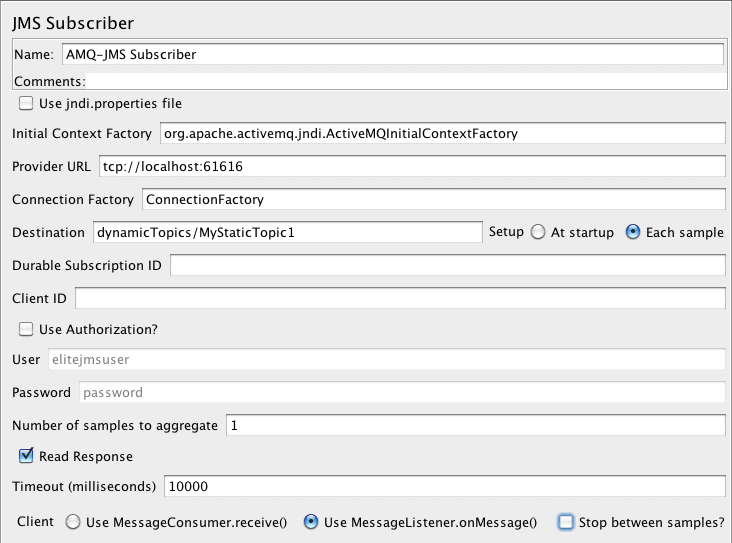
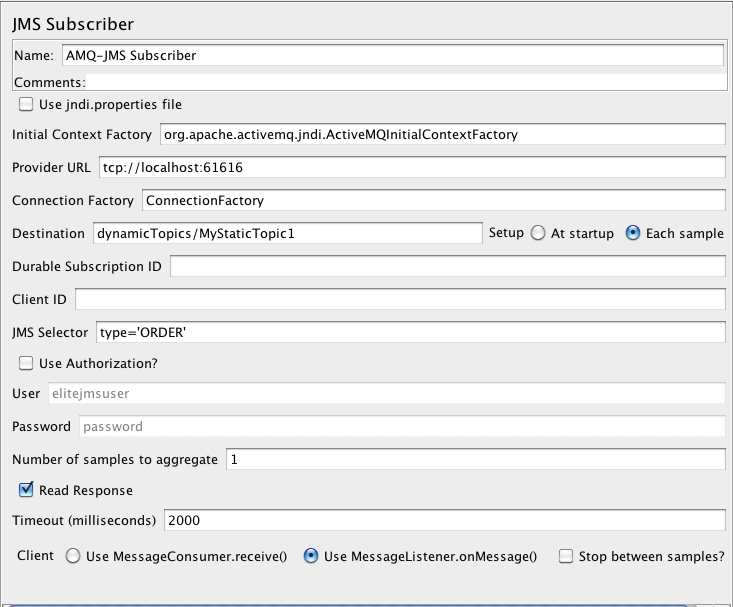
Bug 51419 - JMS Subscriber: ability to use Selectors
git-svn-id: https://svn.apache.org/repos/asf/jakarta/jmeter/trunk@1183653 13f79535-47bb-0310-9956-ffa450edef68

Changed region(s): [[0.0, 0.0, 1.0, 0.5009], [0.0, 0.5893, 0.9918, 1.0], [0.0, 0.5304, 0.2705, 0.5599]]

diff --git a/src/protocol/jms/org/apache/jmeter/protocol/jms/client/ReceiveSubscriber.java b/src/protocol/jms/org/apache/jmeter/protocol/jms/client/ReceiveSubscriber.java
@@ -74,6 +74,9 @@ public class ReceiveSubscriber implements Closeable, MessageListener {
      * @param providerUrl
      * @param connfactory
      * @param destinationName
+     * @param durableSubscriptionId
+     * @param clientId
+     * @param jmsSelector Message Selector
      * @param useAuth
      * @param securityPrincipal
      * @param securityCredentials
@@ -82,11 +85,11 @@ public class ReceiveSubscriber implements Closeable, MessageListener {
      */
     public ReceiveSubscriber(boolean useProps, 
             String initialContextFactory, String providerUrl, String connfactory, String destinationName,
-            String durableSubscriptionId, String clientId, boolean useAuth, 
+            String durableSubscriptionId, String clientId, String jmsSelector, boolean useAuth, 
             String securityPrincipal, String securityCredentials) throws NamingException, JMSException {
         this(0, useProps, 
                 initialContextFactory, providerUrl, connfactory, destinationName,
-                durableSubscriptionId, clientId, useAuth, 
+                durableSubscriptionId, clientId, jmsSelector, useAuth, 
                 securityPrincipal, securityCredentials, false);
     }
 
@@ -103,6 +106,9 @@ public class ReceiveSubscriber implements Closeable, MessageListener {
      * @param providerUrl
      * @param connfactory
      * @param destinationName
+     * @param durableSubscriptionId
+     * @param clientId
+     * @param jmsSelector Message Selector
      * @param useAuth
      * @param securityPrincipal
      * @param securityCredentials
@@ -111,11 +117,11 @@ public class ReceiveSubscriber implements Closeable, MessageListener {
      */
     public ReceiveSubscriber(int queueSize, boolean useProps, 
             String initialContextFactory, String providerUrl, String connfactory, String destinationName,
-            String durableSubscriptionId, String clientId, boolean useAuth, 
+            String durableSubscriptionId, String clientId, String jmsSelector, boolean useAuth, 
             String securityPrincipal, String securityCredentials) throws NamingException, JMSException {
         this(queueSize,  useProps, 
              initialContextFactory, providerUrl, connfactory, destinationName,
-             durableSubscriptionId, clientId, useAuth, 
+             durableSubscriptionId, clientId, jmsSelector, useAuth, 
              securityPrincipal,  securityCredentials, true);
     }
     
@@ -133,6 +139,9 @@ public class ReceiveSubscriber implements Closeable, MessageListener {
      * @param providerUrl
      * @param connfactory
      * @param destinationName
+     * @param durableSubscriptionId
+     * @param clientId
+     * @param jmsSelector Message Selector
      * @param useAuth
      * @param securityPrincipal
      * @param securityCredentials
@@ -142,7 +151,7 @@ public class ReceiveSubscriber implements Closeable, MessageListener {
      */
     private ReceiveSubscriber(int queueSize, boolean useProps, 
             String initialContextFactory, String providerUrl, String connfactory, String destinationName,
-            String durableSubscriptionId, String clientId, boolean useAuth, 
+            String durableSubscriptionId, String clientId, String jmsSelector, boolean useAuth, 
             String securityPrincipal, String securityCredentials, boolean useMessageListener) throws NamingException, JMSException {
         boolean initSuccess = false;
         try{
@@ -154,7 +163,7 @@ public class ReceiveSubscriber implements Closeable, MessageListener {
             }
             SESSION = CONN.createSession(false, Session.AUTO_ACKNOWLEDGE);
             Destination dest = Utils.lookupDestination(ctx, destinationName);
-            SUBSCRIBER = createSubscriber(SESSION, dest, durableSubscriptionId);
+            SUBSCRIBER = createSubscriber(SESSION, dest, durableSubscriptionId, jmsSelector);
             if(useMessageListener) {
                 if (queueSize <=0) {
                     queue = new LinkedBlockingQueue<Message>();
@@ -184,15 +193,25 @@ public class ReceiveSubscriber implements Closeable, MessageListener {
      * @param durableSubscriptionId 
      * 				If neither empty nor null, this means that a durable 
      * 				subscription will be used
+     * @param jmsSelector JMS Selector
      * @return
      * @throws JMSException
      */
     private MessageConsumer createSubscriber(Session session, 
-    		Destination destination, String durableSubscriptionId) throws JMSException {
+    		Destination destination, String durableSubscriptionId, 
+    		String jmsSelector) throws JMSException {
     	if (isEmpty(durableSubscriptionId)) {
-        	return  session.createConsumer(destination);
+    	    if(isEmpty(jmsSelector)) {
+    	        return session.createConsumer(destination);
+    	    } else {
+    	        return session.createConsumer(destination, jmsSelector);
+    	    }
         } else {
-        	return session.createDurableSubscriber((Topic) destination, durableSubscriptionId); 
+            if(isEmpty(jmsSelector)) {
+                return session.createDurableSubscriber((Topic) destination, durableSubscriptionId); 
+            } else {
+                return session.createDurableSubscriber((Topic) destination, durableSubscriptionId, jmsSelector, false);                 
+            }
         }	
     }
 

diff --git a/src/protocol/jms/org/apache/jmeter/protocol/jms/sampler/SubscriberSampler.java b/src/protocol/jms/org/apache/jmeter/protocol/jms/sampler/SubscriberSampler.java
@@ -79,16 +79,19 @@ public class SubscriberSampler extends BaseJMSSampler implements Interruptible, 
     // Don't change the string, as it is used in JMX files
     private static final String CLIENT_CHOICE = "jms.client_choice"; // $NON-NLS-1$
     private static final String TIMEOUT = "jms.timeout"; // $NON-NLS-1$
-    private static final String TIMEOUT_DEFAULT = "";
+    private static final String TIMEOUT_DEFAULT = ""; // $NON-NLS-1$
     private static final String DURABLE_SUBSCRIPTION_ID = "jms.durableSubscriptionId"; // $NON-NLS-1$
     private static final String CLIENT_ID = "jms.clientId"; // $NON-NLS-1$
+    private static final String JMS_SELECTOR = "jms.selector"; // $NON-NLS-1$
     private static final String DURABLE_SUBSCRIPTION_ID_DEFAULT = "";
     private static final String CLIENT_ID_DEFAULT = ""; // $NON-NLS-1$
+    private static final String JMS_SELECTOR_DEFAULT = ""; // $NON-NLS-1$
     private static final String STOP_BETWEEN = "jms.stop_between_samples"; // $NON-NLS-1$
     
     private transient boolean START_ON_SAMPLE = false;
 
     public SubscriberSampler() {
+        super();
     }
 
     /**
@@ -101,7 +104,7 @@ public class SubscriberSampler extends BaseJMSSampler implements Interruptible, 
     private void initListenerClient() throws JMSException, NamingException {
         SUBSCRIBER = new ReceiveSubscriber(0, getUseJNDIPropertiesAsBoolean(), getJNDIInitialContextFactory(),
                     getProviderUrl(), getConnectionFactory(), getDestination(), getDurableSubscriptionId(),
-                    getClientId(), isUseAuth(), getUsername(), getPassword());
+                    getClientId(), getJmsSelector(), isUseAuth(), getUsername(), getPassword());
         log.debug("SubscriberSampler.initListenerClient called");
     }
 
@@ -113,7 +116,7 @@ public class SubscriberSampler extends BaseJMSSampler implements Interruptible, 
     private void initReceiveClient() throws NamingException, JMSException {
         SUBSCRIBER = new ReceiveSubscriber(getUseJNDIPropertiesAsBoolean(),
                 getJNDIInitialContextFactory(), getProviderUrl(), getConnectionFactory(), getDestination(),
-                getDurableSubscriptionId(), getClientId(), isUseAuth(), getUsername(), getPassword());
+                getDurableSubscriptionId(), getClientId(), getJmsSelector(), isUseAuth(), getUsername(), getPassword());
         log.debug("SubscriberSampler.initReceiveClient called");
     }
 
@@ -371,6 +374,13 @@ public class SubscriberSampler extends BaseJMSSampler implements Interruptible, 
     public String getClientId() {
         return getPropertyAsString(CLIENT_ID, CLIENT_ID_DEFAULT);
     }
+    
+    /**
+     * @return JMS selector
+     */
+    public String getJmsSelector() {
+        return getPropertyAsString(JMS_SELECTOR, JMS_SELECTOR_DEFAULT);
+    }
 
     public void setDurableSubscriptionId(String durableSubscriptionId){
         setProperty(DURABLE_SUBSCRIPTION_ID, durableSubscriptionId, DURABLE_SUBSCRIPTION_ID_DEFAULT);        
@@ -381,6 +391,13 @@ public class SubscriberSampler extends BaseJMSSampler implements Interruptible, 
      */
     public void setClientID(String clientId) {
         setProperty(CLIENT_ID, clientId, CLIENT_ID_DEFAULT);
+    }
+   
+    /**
+     * @param jmsSelector JMS Selector
+     */
+    public void setJmsSelector(String jmsSelector) {
+        setProperty(JMS_SELECTOR, jmsSelector, JMS_SELECTOR_DEFAULT);
     }
     
     // This was the old value that was checked for

diff --git a/src/protocol/jms/org/apache/jmeter/protocol/jms/control/gui/JMSSubscriberGui.java b/src/protocol/jms/org/apache/jmeter/protocol/jms/control/gui/JMSSubscriberGui.java
@@ -65,6 +65,9 @@ public class JMSSubscriberGui extends AbstractSamplerGui implements ChangeListen
     private final JLabeledTextField jmsClientId =
         new JLabeledTextField(JMeterUtils.getResString("jms_client_id")); // $NON-NLS-1$
 
+    private final JLabeledTextField jmsSelector =
+        new JLabeledTextField(JMeterUtils.getResString("jms_selector")); // $NON-NLS-1$
+
     private final JLabeledTextField jmsUser =
         new JLabeledTextField(JMeterUtils.getResString("jms_user")); // $NON-NLS-1$
 
@@ -140,6 +143,7 @@ public class JMSSubscriberGui extends AbstractSamplerGui implements ChangeListen
         sampler.setDestination(jmsDestination.getText());
         sampler.setDurableSubscriptionId(jmsDurableSubscriptionId.getText());
         sampler.setClientID(jmsClientId.getText());
+        sampler.setJmsSelector(jmsSelector.getText());
         sampler.setUsername(jmsUser.getText());
         sampler.setPassword(jmsPwd.getText());
         sampler.setUseAuth(useAuth.isSelected());
@@ -174,6 +178,7 @@ public class JMSSubscriberGui extends AbstractSamplerGui implements ChangeListen
         mainPanel.add(createDestinationPane());
         mainPanel.add(jmsDurableSubscriptionId);
         mainPanel.add(jmsClientId);
+        mainPanel.add(jmsSelector);
         mainPanel.add(useAuth);
         mainPanel.add(jmsUser);
         mainPanel.add(jmsPwd);
@@ -205,6 +210,7 @@ public class JMSSubscriberGui extends AbstractSamplerGui implements ChangeListen
         jmsDestination.setText(sampler.getDestination());
         jmsDurableSubscriptionId.setText(sampler.getDurableSubscriptionId());
         jmsClientId.setText(sampler.getClientId());
+        jmsSelector.setText(sampler.getJmsSelector());
         jmsUser.setText(sampler.getUsername());
         jmsPwd.setText(sampler.getPassword());
         iterations.setText(sampler.getIterations());
@@ -228,6 +234,7 @@ public class JMSSubscriberGui extends AbstractSamplerGui implements ChangeListen
         jmsDestination.setText(""); // $NON-NLS-1$
         jmsDurableSubscriptionId.setText(""); // $NON-NLS-1$
         jmsClientId.setText(""); // $NON-NLS-1$
+        jmsSelector.setText(""); // $NON-NLS-1$
         jmsUser.setText(""); // $NON-NLS-1$
         jmsPwd.setText(""); // $NON-NLS-1$
         iterations.setText("1"); // $NON-NLS-1$
